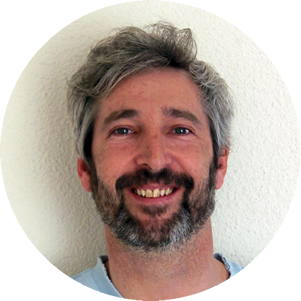
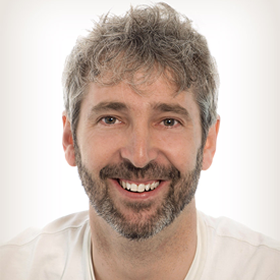
Cambios nosotros

diff --git a/app/index.html b/app/index.html
@@ -374,10 +374,10 @@
         <div class="row">
           <div class="col-sm-6 inner center">
             <div id="moc-moc" class="sonido"></div>
-            <img src="style/images/inaki.png">
+            <img class="rounded" src="style/images/inaki.png">
           </div>
            <div class="col-sm-6 inner center">
-            <img src="style/images/iosu.png">
+            <img class="rounded" src="style/images/iosu.png">
           </div>
         </div>
       </div>

diff --git a/app/style/css/ouiplay.css b/app/style/css/ouiplay.css
@@ -76,6 +76,10 @@ color: #AA5C79;
     top: -1px;
 }
 
+.rounded {
+	border-radius: 50%;
+}
+
 /*Texturas*/
 .textura {
 	background-color: #ccc;
